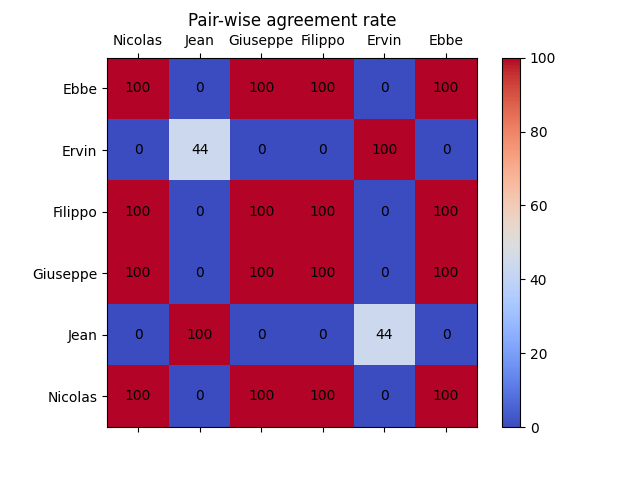
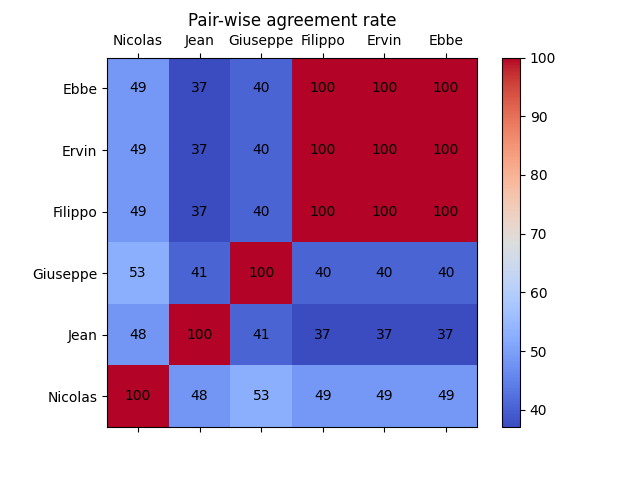
update

diff --git a/find_ref.py b/find_ref.py
@@ -1,0 +1,204 @@
+import os.path
+
+import cv2
+from overlay_mask import *
+import numpy as np
+import matplotlib.pyplot as plt
+
+which_class = 'Check'
+# Load the three black and white masks
+image_dir = 'annotationData/image'
+mask1_dir = 'annotationData/mask'+which_class+'_ni'
+mask2_dir = 'annotationData/mask'+which_class+'_Je'
+mask3_dir = 'annotationData/mask'+which_class+'_gi'
+mask4_dir = 'annotationData/mask'+which_class+'_fi'
+mask5_dir = 'annotationData/mask'+which_class+'_in'
+mask_machine_dir = '/data/DATA/Incision_predictions/Batch8-9/all_data/mask/'+which_class
+image_name = 'FCF1_GY_20230127_059_VID001_trim1.mp4_00083.png'
+dest_folder = 'heatmap2/'
+mask1 = plt.imread(os.path.join(mask1_dir, image_name))
+mask1 = cv2.imread(os.path.join(mask1_dir, image_name), 0) / 255
+mask2 = cv2.imread(os.path.join(mask2_dir, image_name), 0) / 255
+mask3 = cv2.imread(os.path.join(mask3_dir, image_name), 0) / 255
+mask4 = cv2.imread(os.path.join(mask4_dir, image_name), 0) / 255
+mask5 = cv2.imread(os.path.join(mask5_dir, image_name), 0) / 255
+# mask_machine = cv2.imread(os.path.join(mask_machine_dir, image_name), 0) / 255
+
+
+# Create a new numpy array to represent the heatmap
+heatmap = np.ones((mask1.shape[0], mask1.shape[1], 3))
+
+# Loop over the pixels in the heatmap and assign a color based on the number of masks that have that pixel masked
+for i in range(mask1.shape[0]):
+    for j in range(mask1.shape[1]):
+
+        num_masks = mask1[i, j] + mask2[i, j] + mask3[i, j] + mask4[i, j]
+        if num_masks == 0:
+            heatmap[i, j] = [255, 255, 255]  # White color for unmasked pixels
+        elif num_masks == 1:
+            heatmap[i, j] = [0, 0, 255]  # Yellow color for pixels masked in one image
+        elif num_masks == 2:
+            heatmap[i, j] = [0, 255, 0]  # Orange color for pixels masked in two images
+        elif num_masks == 3:
+            heatmap[i, j] = [255, 255, 0]  # Red color for pixels masked in all three images
+        else:
+            heatmap[i, j] = [255, 0, 0]  # Red color for pixels masked in all three images
+
+image_orig = Image.open(os.path.join(image_dir, image_name))
+bg = image_orig.convert('RGB')
+overlay = Image.fromarray(heatmap.astype('uint8'), 'RGB')
+
+mask = overlay.convert('L')
+mask = mask.point(lambda p: 80 if p < 250 else 0)  # if the point is white it is become transparent
+bg.paste(overlay, None, mask)  # paste the overlay to image when a mask exists
+bg.save(dest_folder + image_name)
+#####################################
+ref = mask1 + mask2 + mask3 + mask4
+ref = cv2.normalize(ref, None, 0, 1, cv2.NORM_MINMAX)
+mask1 = cv2.normalize(mask1, None, 0, 1, cv2.NORM_MINMAX)
+mask2 = cv2.normalize(mask2, None, 0, 1, cv2.NORM_MINMAX)
+mask3 = cv2.normalize(mask3, None, 0, 1, cv2.NORM_MINMAX)
+mask4 = cv2.normalize(mask4, None, 0, 1, cv2.NORM_MINMAX)
+mask5 = cv2.normalize(mask5, None, 0, 1, cv2.NORM_MINMAX)
+# mask_machine = cv2.normalize(mask_machine, None, 0, 1, cv2.NORM_MINMAX)
+
+ref = ref.flatten()/np.linalg.norm(ref.flatten())
+mask1 = mask1.flatten()/np.linalg.norm(mask1.flatten())
+mask2 = mask2.flatten()/np.linalg.norm(mask2.flatten())
+mask3 = mask3.flatten()/np.linalg.norm(mask3.flatten())
+mask4 = mask4.flatten()/np.linalg.norm(mask4.flatten())
+mask5 = mask5.flatten()/np.linalg.norm(mask5.flatten())
+# mask_machine = mask_machine.flatten()/np.linalg.norm(mask5.flatten())
+
+
+
+# ref = (ref - np.mean(ref.flatten())) / np.linalg.norm(ref.flatten())
+# mask2 = (mask2 - np.mean(mask2.flatten())) / np.linalg.norm(mask2.flatten())
+# mask3 = (mask3 - np.mean(mask3.flatten())) / np.linalg.norm(mask3.flatten())
+# mask4 = (mask4 - np.mean(mask4.flatten())) / np.linalg.norm(mask4.flatten())
+# mask5 = (mask5 - np.mean(mask5.flatten())) / np.linalg.norm(mask5.flatten())
+
+ni_score = np.dot(ref.flatten(), mask1.flatten())
+je_score = np.dot(ref.flatten(), mask2.flatten())
+gi_score = np.dot(ref.flatten(), mask3.flatten())
+fi_score = np.dot(ref.flatten(), mask4.flatten())
+co_score = np.dot(ref.flatten(), mask5.flatten())
+# ma_score = np.dot(ref.flatten(), mask_machine.flatten())
+
+
+#####################################vvv
+########################################
+image_orig = Image.open(os.path.join(image_dir, image_name))
+def overlayMasks_incision(image_orig, mask1, mask2):
+    # This function takes the two masks and overlay them to the image_orig
+    bg = image_orig.convert('RGB')
+
+    overlay = mask1.convert('RGB')
+    overlay = reColor(overlay, color2=(255, 0, 0))
+
+    overlay2 = mask2.convert('RGB')
+    overlay2 = reColor(overlay2, color2=(0, 255, 0))
+
+    # Replace (255,255,0) with (255,0,0)
+    data1 = np.array(overlay)  # "data" is a height x width x 4 numpy array
+    data2 = np.array(overlay2)  # "data" is a height x width x 4 numpy array
+    data = data1 + data2
+    red, green, blue = data.T  # Temporarily unpack the bands for readability
+    two_colored_areas = (red == 255) & (blue == 0) & (green == 255)
+    data[two_colored_areas.T] = (255, 0, 0)  # Transpose back neede
+    overlay_final = Image.fromarray(data)
+    mask_final = overlay_final.convert('L')
+    mask_final = mask_final.point(lambda p: 60 if p > 5 else 0)
+
+    bg.paste(overlay_final, None, mask_final)
+    return bg
+
+
+def initializeMask(size):
+    a = Image.new(mode="RGBA", size=(size[0], size[1]), color="black")
+    return a
+from PIL import Image, ImageDraw, ImageFont
+
+hh = 20
+space_height = 150
+
+maskH_N = initializeMask(image_orig.size)
+maskS_N = initializeMask(image_orig.size)
+maskH_F = initializeMask(image_orig.size)
+maskS_F = initializeMask(image_orig.size)
+maskH_G = initializeMask(image_orig.size)
+maskS_G = initializeMask(image_orig.size)
+maskH_J = initializeMask(image_orig.size)
+maskS_J = initializeMask(image_orig.size)
+maskH_C = initializeMask(image_orig.size)
+maskS_C = initializeMask(image_orig.size)
+
+maskH_N = Image.open(os.path.join('annotationData', 'maskTreat_ni', image_name[:-4] + '.png'))
+maskS_N = Image.open(os.path.join('annotationData', 'maskCheck_ni', image_name[:-4] + '.png'))
+maskH_J = Image.open(os.path.join('annotationData', 'maskTreat_Je', image_name[:-4] + '.png'))
+maskS_J = Image.open(os.path.join('annotationData', 'maskCheck_Je', image_name[:-4] + '.png'))
+maskH_G = Image.open(os.path.join('annotationData', 'maskTreat_gi', image_name[:-4] + '.png'))
+maskS_G = Image.open(os.path.join('annotationData', 'maskCheck_gi', image_name[:-4] + '.png'))
+maskH_F = Image.open(os.path.join('annotationData', 'maskTreat_fi', image_name[:-4] + '.png'))
+maskS_F = Image.open(os.path.join('annotationData', 'maskCheck_fi', image_name[:-4] + '.png'))
+maskH_C = Image.open(os.path.join('annotationData', 'maskTreat_in', image_name[:-4] + '.png'))
+maskS_C = Image.open(os.path.join('annotationData', 'maskCheck_in', image_name[:-4] + '.png'))
+
+#########################
+image_overlayed_N = overlayMasks_incision(image_orig, maskH_N, maskS_N)
+image_overlayed_J = overlayMasks_incision(image_orig, maskH_J, maskS_J)
+image_overlayed_G = overlayMasks_incision(image_orig, maskH_G, maskS_G)
+image_overlayed_F = overlayMasks_incision(image_orig, maskH_F, maskS_F)
+image_overlayed_C = overlayMasks_incision(image_orig, maskH_C, maskS_C)
+# image_overlayed_M = Image.open(os.path.join('/data/DATA/Incision_predictions/Batch8-9/all_data/final', image_name))
+im3 = Image.new("RGB", (
+    3 * 1920,
+    3 * 1080),
+                (255, 255, 255))
+if image_overlayed_N.width < 1920:
+    newsize = (1920, 1080)
+    image_overlayed_N = image_overlayed_N.resize(newsize)
+    image_overlayed_J = image_overlayed_J.resize(newsize)
+    image_overlayed_G = image_overlayed_G.resize(newsize)
+    image_overlayed_F = image_overlayed_F.resize(newsize)
+    image_overlayed_C = image_overlayed_C.resize(newsize)
+    image_overlayed_M = image_overlayed_M.resize(newsize)
+    image_orig = image_orig.resize(newsize)
+
+WIDTH = image_orig.width
+HEIGHT = image_orig.height
+# Paste the images onto the white background
+
+im3.paste(image_orig, (int(1 * WIDTH), hh + 0))
+im3.paste(image_overlayed_N, (0, hh + 1 * space_height + HEIGHT - 100))
+im3.paste(image_overlayed_J, (WIDTH + 10, hh + 1 * space_height + HEIGHT - 100))
+im3.paste(image_overlayed_G, (2 * WIDTH + 20, hh + 1 * space_height + HEIGHT - 100))
+im3.paste(image_overlayed_F, (0, hh + 2 * space_height + 2 * HEIGHT - 200))
+im3.paste(image_overlayed_C, (WIDTH + 10, hh + 2 * space_height + 2 * HEIGHT - 200))
+# im3.paste(image_overlayed_M, (2 * WIDTH + 20, hh + 2 * space_height + 2 * HEIGHT - 200))
+
+draw = ImageDraw.Draw(im3)
+font = ImageFont.truetype("arial.ttf", 60)
+
+draw.text((1 / 2 * WIDTH, hh + 0 + HEIGHT), 'Nicolas : '+str(round(ni_score,2)), fill=(240, 60, 240), font=font)
+draw.text((3 / 2 * WIDTH + 10, hh + 0 + HEIGHT), 'Jean : '+str(round(je_score,2)), fill=(240, 60, 240), font=font)
+draw.text((5 / 2 * WIDTH + 20, hh + 0 + HEIGHT), 'Guiseppe : '+str(round(gi_score,2)), fill=(240, 60, 240), font=font)
+draw.text((1 / 2 * WIDTH, hh + 0 + 2 * HEIGHT + 50), 'Filippo : '+str(round(fi_score,2)), fill=(240, 60, 240), font=font)
+draw.text((3 / 2 * WIDTH + 10, hh + 0 + 2 * HEIGHT + 50), 'Consensus : '+str(round(co_score,2)), fill=(240, 60, 240), font=font)
+draw.text((5 / 2 * WIDTH + 10, hh + 0 + 2 * HEIGHT + 50), 'Machine : '+str(round(0,2)), fill=(240, 60, 240), font=font)
+
+
+# Draw the text on the image
+imagename = image_name[:-4]
+
+namevid, _, frnumber = imagename.rpartition('_')
+draw.text((0 / 2 * WIDTH, hh + int(0 * HEIGHT)), namevid + '_' + frnumber, fill=(0, 0, 0), font=font)
+space_height = 150
+
+hh = hh + 3 * HEIGHT + space_height + 30
+
+imagename = image_name[:-4]
+namevid, _, frnumber = imagename.rpartition('_')
+
+cv2.imwrite(dest_folder + image_name + ".jpg",
+            cv2.cvtColor(np.array(im3), cv2.COLOR_BGR2RGB))

diff --git a/IncisionComparison_V2.py b/IncisionComparison_V2.py
@@ -10,7 +10,7 @@ import datetime
 from overlay_mask import reColor
 from statistics import mean
 
-batch_num = 21
+batch_num = 9
 # from IncisionDataFolderCreation import batch_num
 
 common_path = 'annotationData/'
@@ -60,6 +60,7 @@ Check_rates = np.zeros((lenimg, nb_ann * nb_ann))
 r = 0
 print('There are %d images' % lenimg)
 batch_size = 2
+space_height = 150
 ep = 1e-15
 save_image = True
 
@@ -148,10 +149,10 @@ for j in range(math.ceil(lenimg / batch_size)):
         maskS_G = Image.open(os.path.join(common_path, 'maskCheck_gi', images[i][:-4] + '.png'))
         maskH_F = Image.open(os.path.join(common_path, 'maskTreat_fi', images[i][:-4] + '.png'))
         maskS_F = Image.open(os.path.join(common_path, 'maskCheck_fi', images[i][:-4] + '.png'))
-        maskH_ER = Image.open(os.path.join(common_path, 'maskTreat_Er', images[i][:-4] + '.png'))
-        maskS_ER = Image.open(os.path.join(common_path, 'maskCheck_Er', images[i][:-4] + '.png'))
-        maskH_EB = Image.open(os.path.join(common_path, 'maskTreat_eb', images[i][:-4] + '.png'))
-        maskS_EB = Image.open(os.path.join(common_path, 'maskCheck_eb', images[i][:-4] + '.png'))
+        maskH_ER = Image.open(os.path.join(common_path, 'maskTreat_fi', images[i][:-4] + '.png'))
+        maskS_ER = Image.open(os.path.join(common_path, 'maskCheck_fi', images[i][:-4] + '.png'))
+        maskH_EB = Image.open(os.path.join(common_path, 'maskTreat_fi', images[i][:-4] + '.png'))
+        maskS_EB = Image.open(os.path.join(common_path, 'maskCheck_fi', images[i][:-4] + '.png'))
 
         #########################
         image_overlayed_N = overlayMasks_incision(image_orig, maskH_N, maskS_N)
@@ -203,8 +204,8 @@ for j in range(math.ceil(lenimg / batch_size)):
         im3.paste(image_overlayed_J, (WIDTH + 10, hh + 2 * space_height + HEIGHT - 100))
         im3.paste(image_overlayed_G, (2 * WIDTH + 20, hh + 2 * space_height + HEIGHT - 100))
         im3.paste(image_overlayed_F, (0, hh + 3 * space_height + 2 * HEIGHT - 200))
-        im3.paste(image_overlayed_ER, (WIDTH + 10, hh + 3 * space_height + 2 * HEIGHT - 200))
-        im3.paste(image_overlayed_EB, (2 * WIDTH + 20, hh + 3 * space_height + 2 * HEIGHT - 200))
+        # im3.paste(image_overlayed_ER, (WIDTH + 10, hh + 3 * space_height + 2 * HEIGHT - 200))
+        # im3.paste(image_overlayed_EB, (2 * WIDTH + 20, hh + 3 * space_height + 2 * HEIGHT - 200))
 
         if draw_machine_prediction:
             image_machine = Image.open(os.path.join(machine_path, images[i]))

diff --git a/extrct_video_sequence_V2.py b/extrct_video_sequence_V2.py
@@ -1,6 +1,6 @@
 import pygsheets
 
-sheet_id = '11e7eDQZcPBAAgFsTG364kiMY7Jw8bftkvVUnbXVS7Zc'
+sheet_id = '1rkSd-86iS1k8og1ehRsJ5pKc6qyOfanf'
 
 gc = pygsheets.authorize(service_file='keycode/my-gpysheets-3d8d13442005.json')
 sh = gc.open_by_key(sheet_id)
@@ -37,6 +37,6 @@ while i < 128:
         script_lines = script_lines + '\n'
     video_name_full = video_name + '_' + video_num + '.mp4'
 
-with open('extract_bash_J_4.sh', 'w') as f:
+with open('extract_bash_G_3.sh', 'w') as f:
     f.write('#!/bin/sh\n')
     f.write(script_lines)

diff --git a/IncisionDataFolderCreation_V2.py b/IncisionDataFolderCreation_V2.py
@@ -8,11 +8,11 @@ import cv2
 # batch_num = 3
 dict = {'nicolas.bourdel': 0, 'Jean-Luc.Pouly': 1, 'giuseppe.giacomello': 2, 'filippo.ferrari': 3,
         'Ervin.Kallfa': 4, 'ebbe.thinggaard': 5, 'incision.consensus': 6}
-annotator ='Jean-Luc.Pouly'
+annotator ='nicolas.bourdel'
 print(annotator)
 save_image = True
-remove_all_folders = True
-for batch_num in [8]:
+remove_all_folders = False
+for batch_num in [22]:
 
     data_folder = 'annotationData/'  # The destination folder
 

diff --git a/main_IncicionDataFolderCreation_V2.py b/main_IncicionDataFolderCreation_V2.py
@@ -1,5 +1,6 @@
 dict = {'nicolas.bourdel': 0, 'Jean-Luc.Pouly': 1, 'giuseppe.giacomello': 2, 'filippo.ferrari': 3,
-        'Ervin.Kallfa': 4, 'ebbe.thinggaard': 5}
+'incision.consensus':4}
+        # 'Ervin.Kallfa': 4, 'ebbe.thinggaard': 5}
 for annotator in list(dict.keys()):
     with open("IncisionDataFolderCreation_V2.py") as f:
         exec(f.read())
